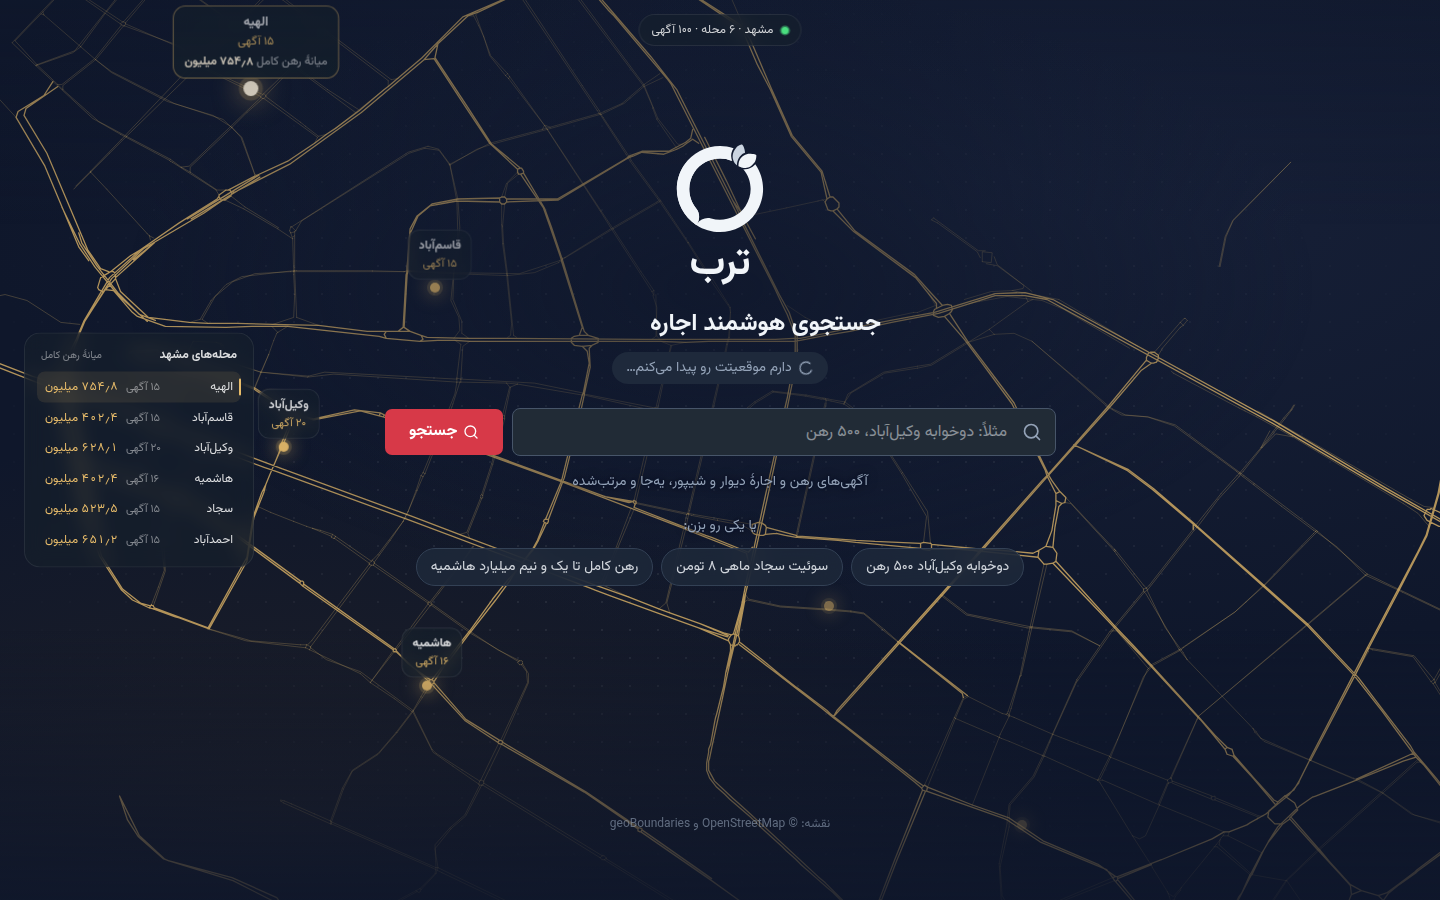
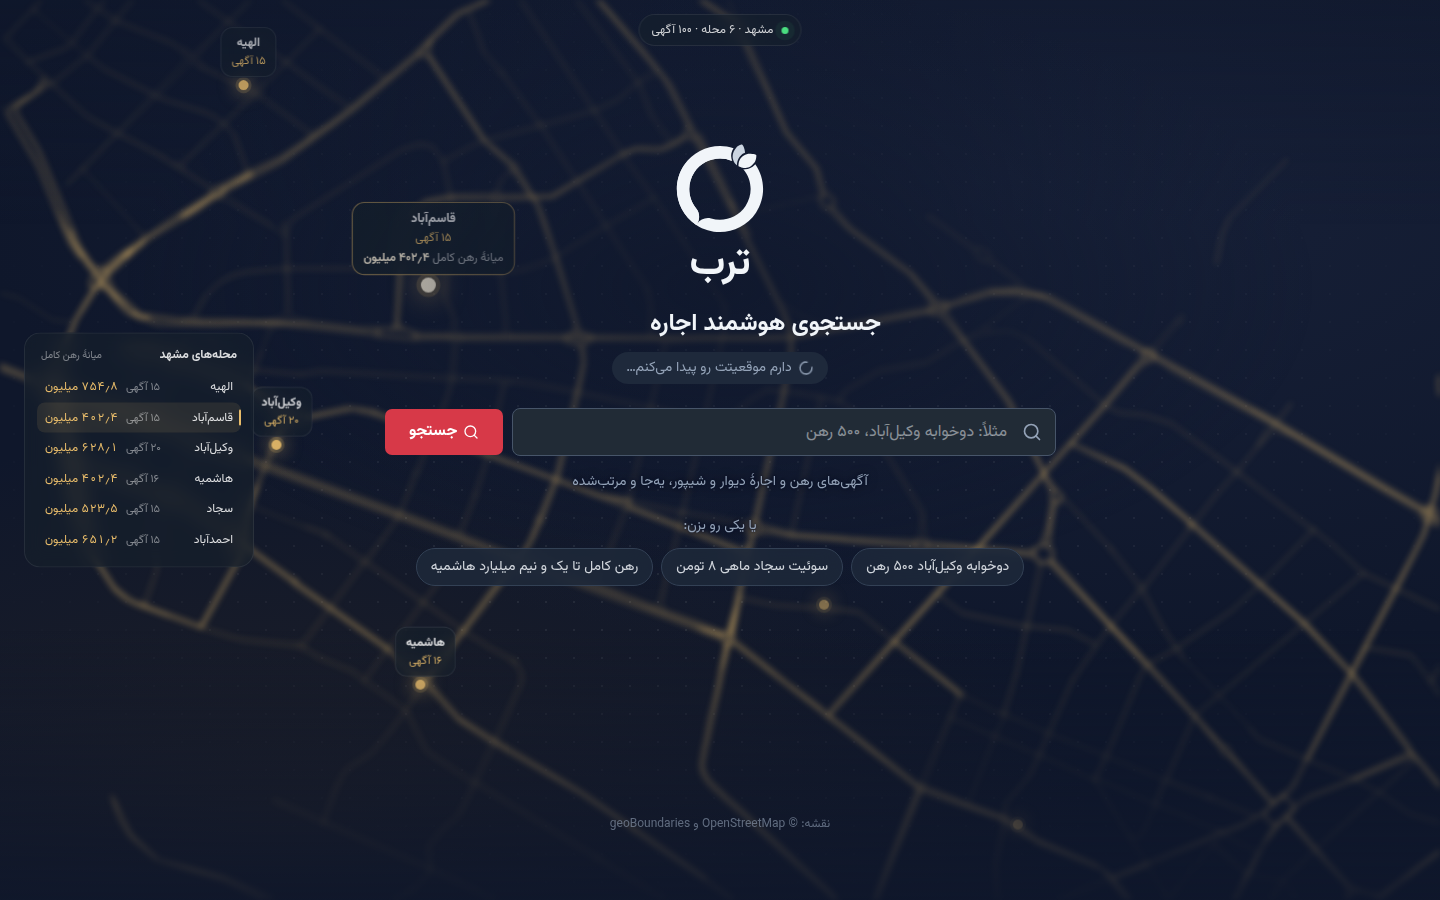
feat(home): blur the map's gold lines so the search box is the focus
Iran, the arc and Mashhad's roads are one SVG layer, so a CSS blur on it
softens every line while the HTML dots, pins and labels stay sharp.

Claude-Session: https://claude.ai/code/session_01WKYLLYLMyQPpLrtAsaoVGt

diff --git a/src/components/hero-map/hero-map.tsx b/src/components/hero-map/hero-map.tsx
@@ -242,7 +242,7 @@ export function HeroMap({
   return (
     <div ref={rootRef} aria-hidden className={cn("hero-map pointer-events-none fixed inset-0 overflow-hidden", className)} data-phase={phase}>
       <div className="hero-map-grid absolute inset-0" />
-      <svg ref={svgRef} className="absolute inset-0 size-full" preserveAspectRatio="none">
+      <svg ref={svgRef} className="hm-lines absolute inset-0 size-full" preserveAspectRatio="none">
         <defs>
           <radialGradient id="hm-reveal">
             <stop offset="0.7" stopColor="#fff" />

diff --git a/src/app/globals.css b/src/app/globals.css
@@ -274,6 +274,17 @@ html:root {
   mask-image: radial-gradient(ellipse at center, #000 30%, transparent 80%);
 }
 
+/* Gold lines (Iran, the arc, Mashhad's roads) sit out of focus so the search box owns the page;
+   dots, pins and labels are HTML layers above the SVG and stay sharp. */
+.hm-lines {
+  filter: blur(2.5px);
+}
+@media (min-width: 640px) {
+  .hm-lines {
+    filter: blur(3px);
+  }
+}
+
 .hm-province {
   fill: var(--hm-gold);
   fill-opacity: 0;

diff --git a/docs/PLAN.md b/docs/PLAN.md
@@ -189,6 +189,7 @@ Time boxes are hard limits. Over budget → cut to simplest demoable version, no
       icon-in-input search, tagline under it); map background on Torob's dark navy
 - [x] Torob everywhere the user sees it (owner: yes): results header, tab icon, apple icon, og.png, title, copy;
       home-page demo line removed (map credit kept, ODbL)
+- [x] Home map: gold lines (Iran, arc, roads) blurred, dots/pins sharp — focus on the search box (owner request)
 
 ## Stretch (only if everything above is done)
 - [x] Cross-source duplicate detection (exact-match version, done in Phase 3) (same listing on Divar & Sheypoor merged — very "Torob")

diff --git a/docs/BRAND.md b/docs/BRAND.md
@@ -28,7 +28,7 @@ The results-page footer still says it's a demo with sample listings.
 | warning (trade-offs) | `#854D0F` (6.9:1) | `#FFCA32` | `--yellow-800` / `--yellow-500` |
 | radius | 8px | | cards, inputs, buttons |
 | theme-color | `#FFFFFF` | `#15202B` | torob.com meta |
-| hero map | gold roads on `#0F172B` | | `--sky-50` dark |
+| hero map | gold lines on `#0F172B`, blurred (2.5px phone / 3px desktop); dots and pins stay sharp so the search box is the focus | | `--sky-50` dark |
 
 Known gap: `#D73948` as small text on the `#F1F5F9` page background is 4.2:1 (Torob does the same);
 on white cards it is 4.6:1.
